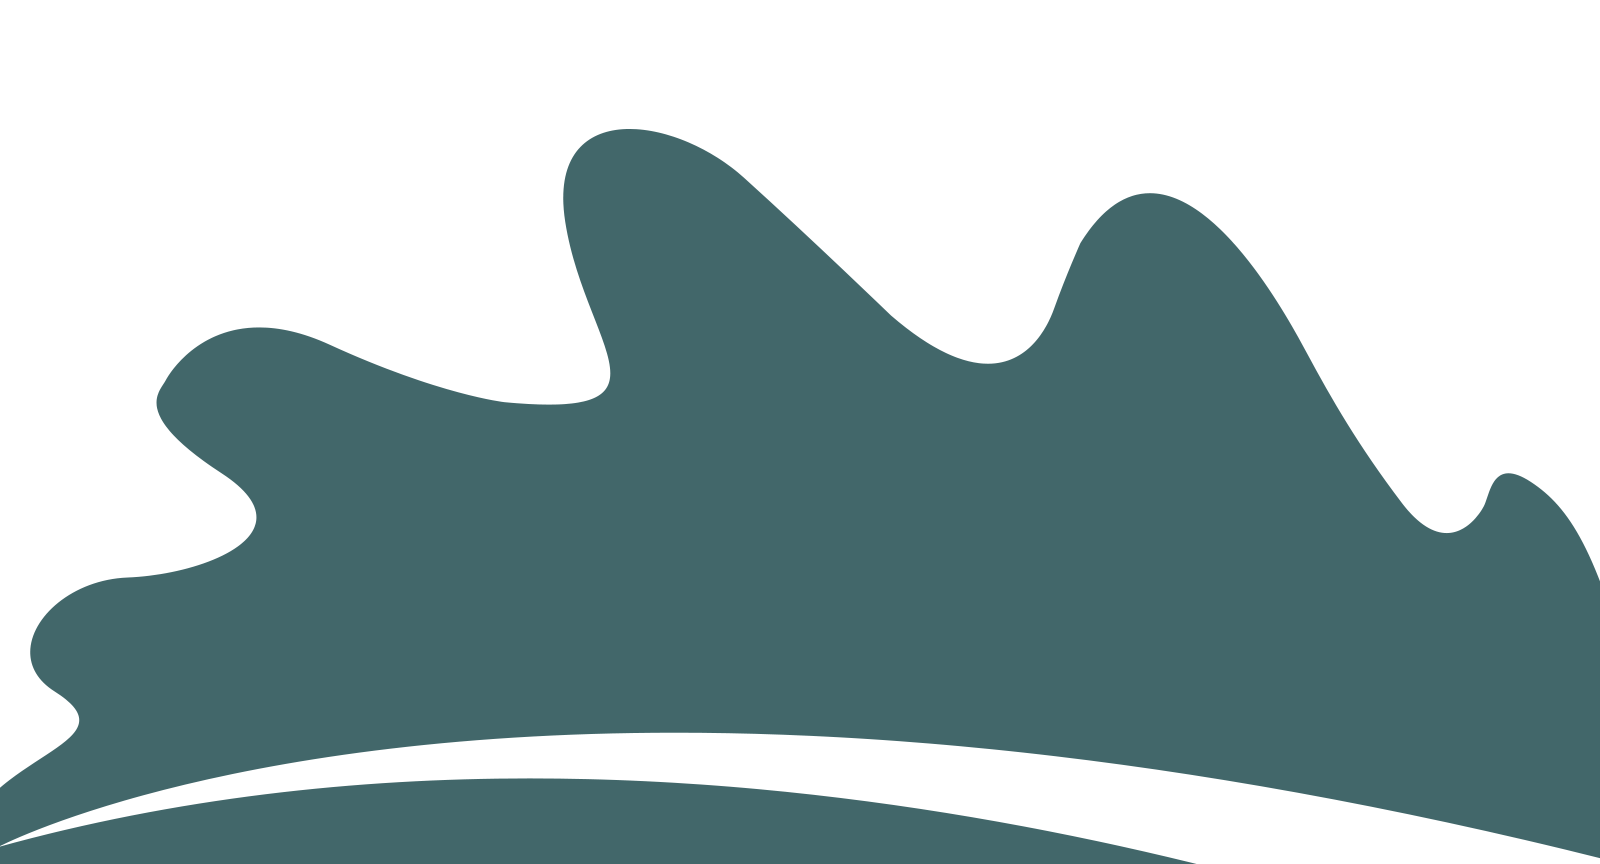
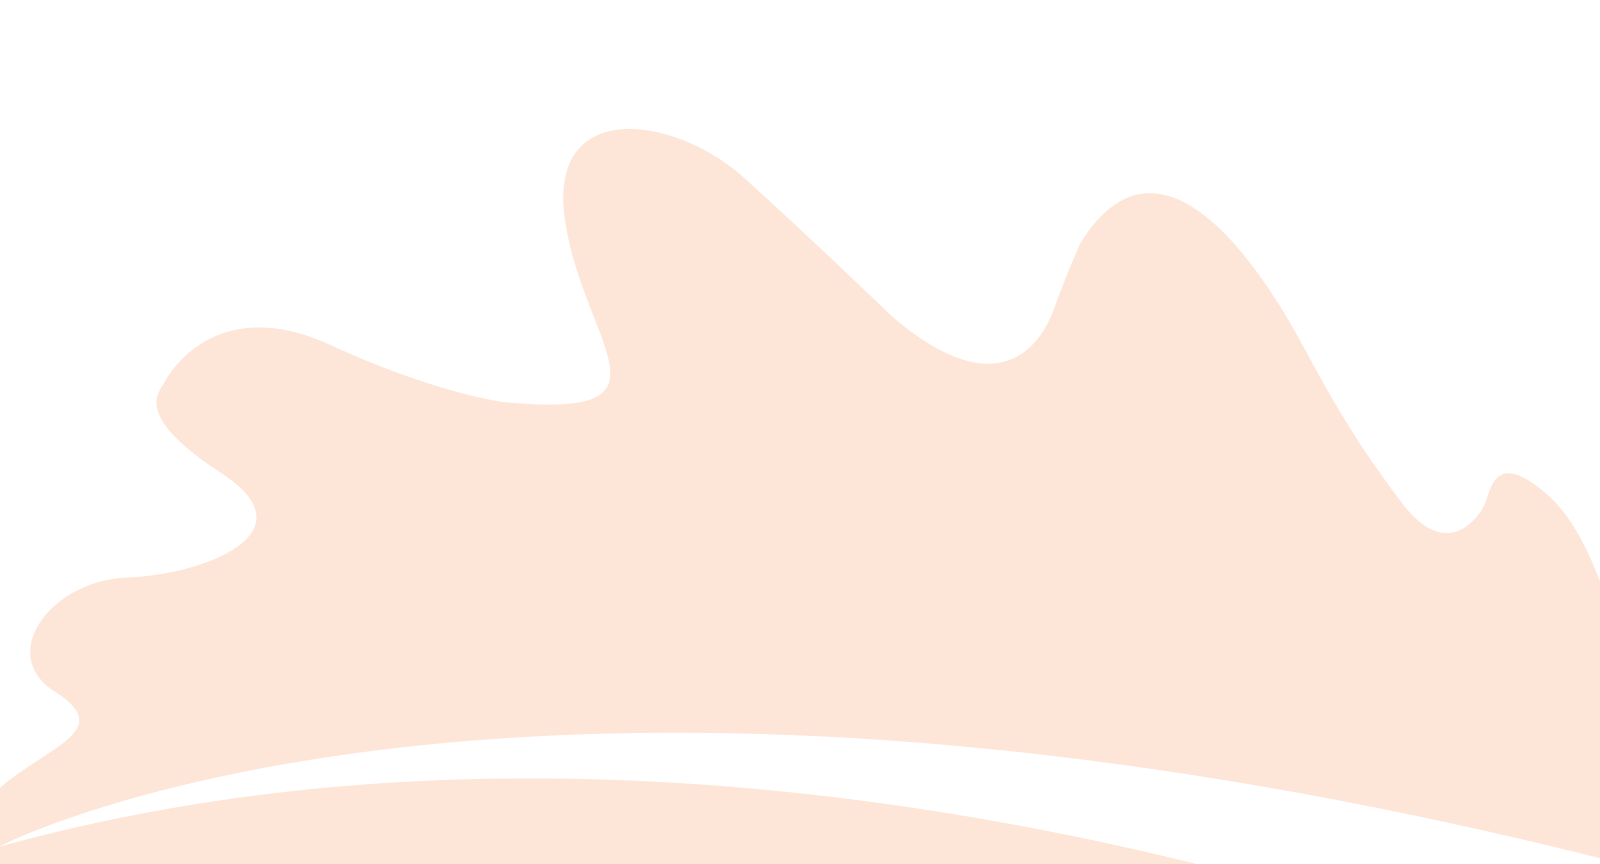
Massive hero section update.

diff --git a/index.html b/index.html
@@ -59,48 +59,45 @@
 </header>
 
 <!-- hero area -->
-<section class="hero-area bg-primary" id="parallax">
+<section class="hero-area img-fluid bg-primary" id="parallax">
   <div class="container">
     <div class="row">
       <div class="col-lg-11 mx-auto">
-        <h1 class="text-white font-tertiary">Become a stand-out and non-cookie-cutter Product Designer
-          </h1><br><p class="text-white">With Katie P. and William H.</p>
+        <h1 class="font-tertiary">Become the best version of yourself as a UX/Product Designer
+          </h1><br><p >With Katie Pang. and William Huynh.</p>
       </div>
     </div>
-  </div>
-  <div class="layer-bg w-100">
-    <img class="img-fluid w-100" src="images/illustrations/leaf-bg.png" alt="bg-shape">
   </div>
   <div class="layer" id="l2">
     <img src="images/illustrations/dots-cyan.png" alt="bg-shape">
   </div>
   <div class="layer" id="l3">
-    <img src="images/illustrations/leaf-orange.png" alt="bg-shape">
+    <img src="images/illustrations/cream-blob.png" alt="bg-shape">
   </div>
   <div class="layer" id="l4">
     <img src="images/illustrations/dots-orange.png" alt="bg-shape">
   </div>
   <div class="layer" id="l5">
-    <img src="images/illustrations/leaf-yellow.png" alt="bg-shape">
+    <img src="images/illustrations/orange-blob.png" alt="bg-shape">
   </div>
   <div class="layer" id="l6">
-    <img src="images/illustrations/leaf-cyan.png" alt="bg-shape">
+    <img src="images/illustrations/light-green-blob.png" alt="bg-shape">
   </div>
   <div class="layer" id="l7">
     <img src="images/illustrations/dots-group-orange.png" alt="bg-shape">
   </div>
   <div class="layer" id="l8">
-    <img src="images/illustrations/leaf-pink-round.png" alt="bg-shape">
+    <img src="images/illustrations/light-green-dots.png" alt="bg-shape">
   </div>
   <div class="layer" id="l9">
-    <img src="images/illustrations/leaf-cyan-2.png" alt="bg-shape">
+    <img src="images/illustrations/dark-green-blob.png" alt="bg-shape">
   </div>
   <!-- social icon -->
   <ul class="list-unstyled ml-5 mt-3 position-relative zindex-1">
-    <li class="mb-3"><a class="text-white" href="https://themefisher.com/"><i class="ti-facebook"></i></a></li>
-    <li class="mb-3"><a class="text-white" href="https://themefisher.com/"><i class="ti-instagram"></i></a></li>
-    <li class="mb-3"><a class="text-white" href="https://themefisher.com/"><i class="ti-dribbble"></i></a></li>
-    <li class="mb-3"><a class="text-white" href="https://themefisher.com/"><i class="ti-twitter"></i></a></li>
+    <li class="mb-3"><a class="text-black-50" href="https://themefisher.com/"><i class="ti-linkedin"></i></a></li>
+    <li class="mb-3"><a class="text-black-50" href="https://themefisher.com/"><i class="ti-instagram"></i></a></li>
+    <li class="mb-3"><a class="text-black-50" href="https://themefisher.com/"><i class="ti-dribbble"></i></a></li>
+    <li class="mb-3"><a class="text-black-50" href="https://themefisher.com/"><i class="ti-twitter"></i></a></li>
   </ul>
   <!-- /social icon -->
 </section>

diff --git a/css/style.css b/css/style.css
@@ -121,7 +121,7 @@ h6, .h6 {
 }
 
 body {
-  background-color: #fff;
+  background-color: #fff !important;
   overflow-x: hidden;
 }
 
@@ -229,7 +229,10 @@ a:hover {
 }
 
 .bg-primary {
-  background: #53777a !important;
+  background: url(../images//backgrounds/background-image.svg);
+  background-position: center center;
+  background-size: cover;
+  background-attachment: fixed;
 }
 
 .bg-gray {
@@ -427,7 +430,7 @@ textarea.form-control {
 }
 
 .navbar-dark .navbar-nav .nav-link {
-  color: #fff;
+  color: #303030;
 }
 
 .hero-area {
@@ -443,6 +446,7 @@ textarea.form-control {
 .hero-area h1 {
   position: relative;
   z-index: 2;
+  color: #222222;
 }
 .hero-area p {
   position: relative;

diff --git a/contact.html b/contact.html
@@ -101,7 +101,7 @@
                 placeholder="Type Message Here" required></textarea>
             </div>
             <div class="col-lg-6 col-10 mx-auto">
-              <button class="btn btn-primary w-100">send</button>
+              <button class="btn btn-primary w-100" href='mailto:williamnhuynh@gmail.com,person2@domain.example'>send</button>
             </div>
           </form>
         </div>

diff --git a/js/script.js b/js/script.js
@@ -1,10 +1,3 @@
-/**
- * WEBSITE: https://themefisher.com
- * TWITTER: https://twitter.com/themefisher
- * FACEBOOK: https://www.facebook.com/themefisher
- * GITHUB: https://github.com/themefisher/
- */
-
 (function ($) {
     'use strict';
 
